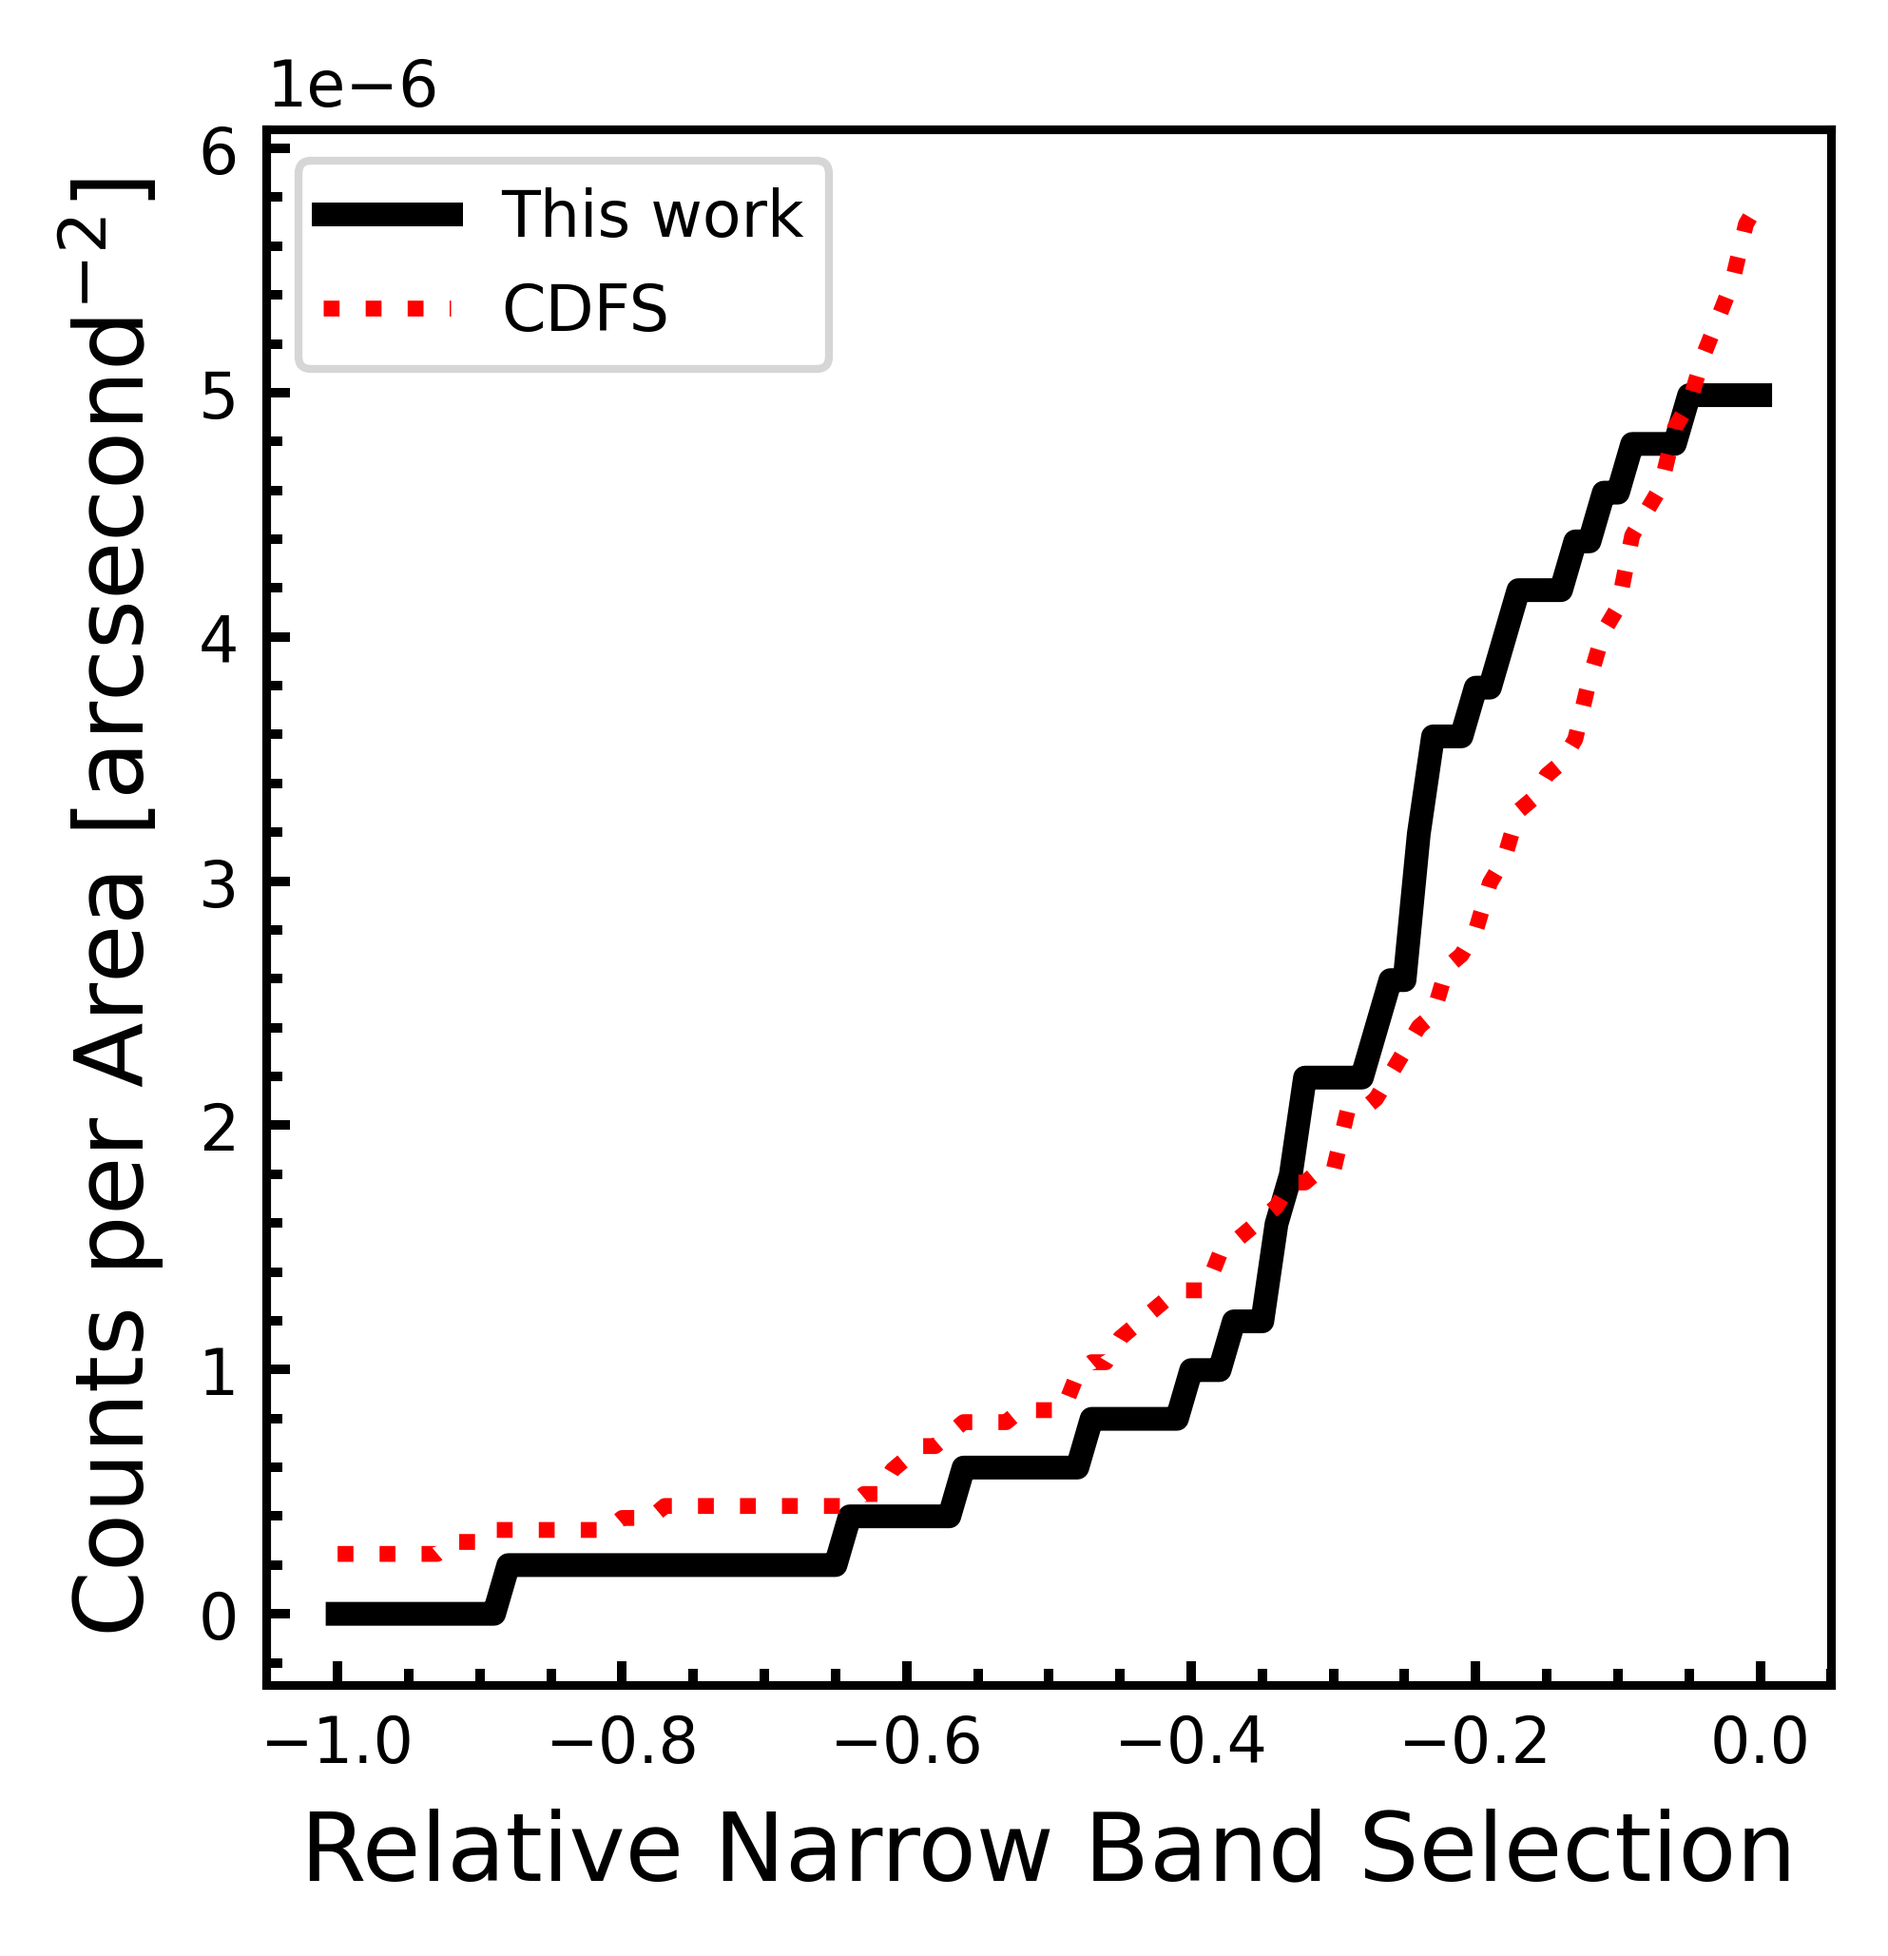
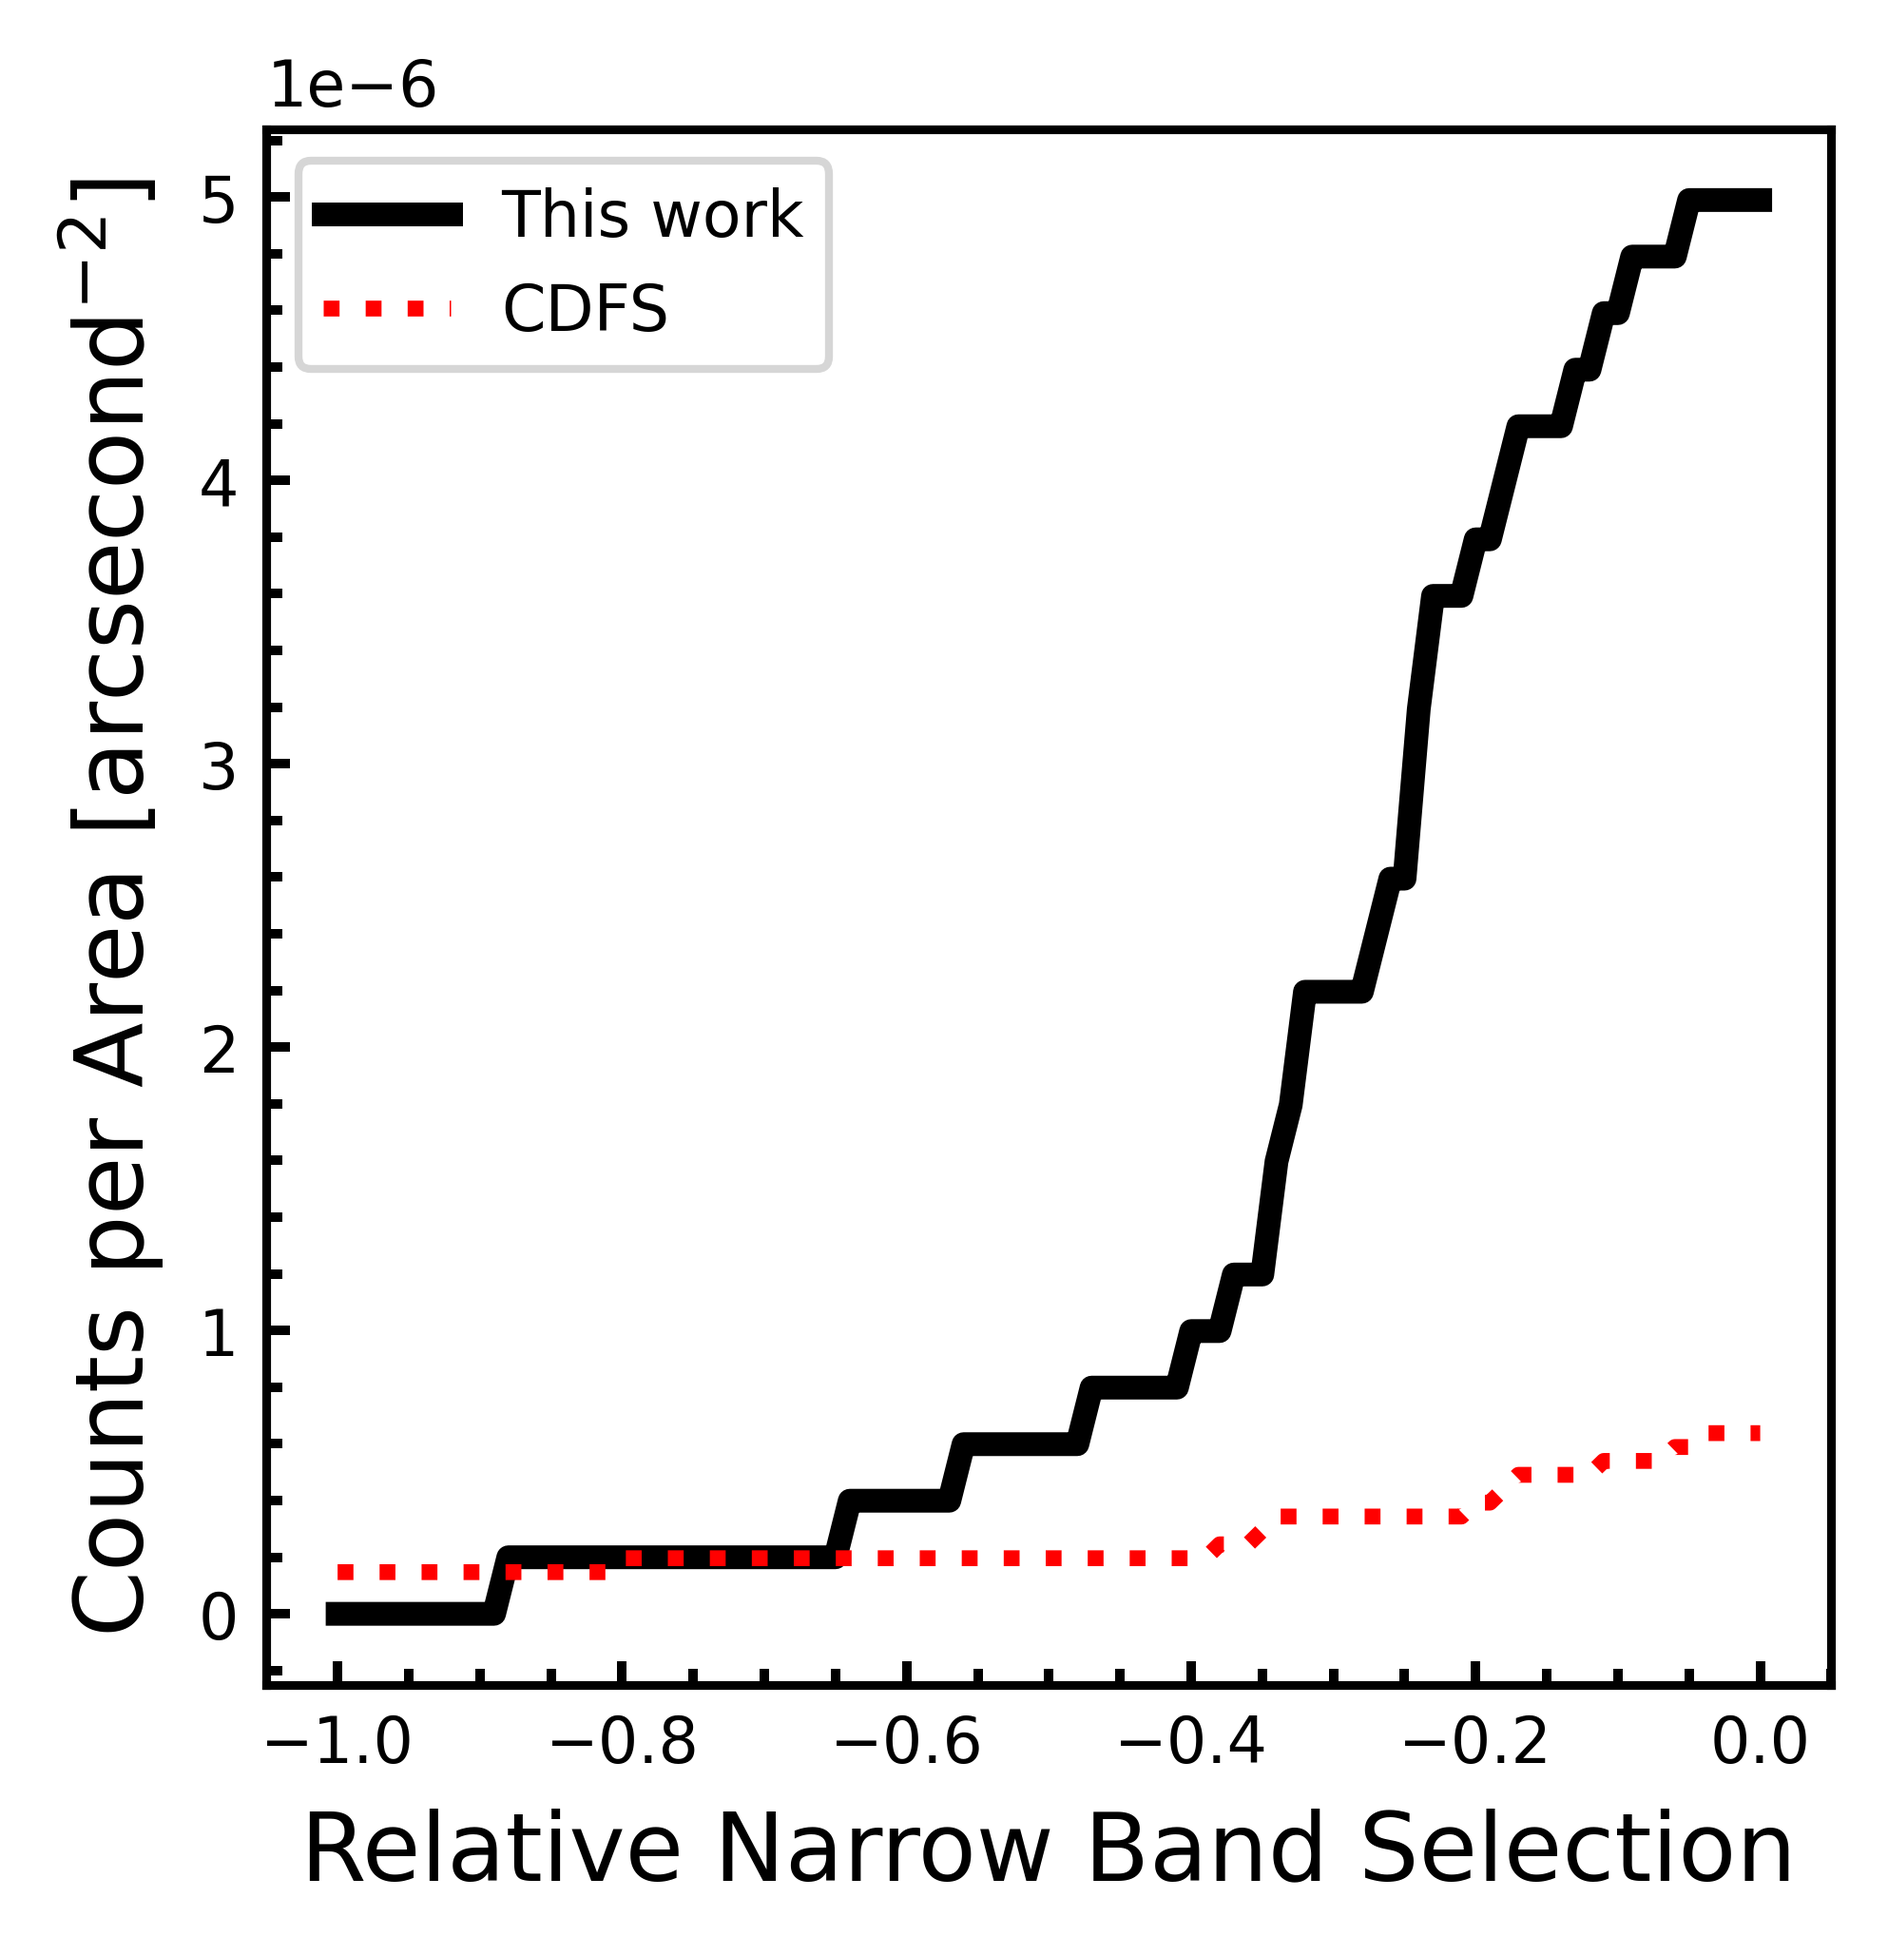
roberto check

diff --git a/identify_candidates.py b/identify_candidates.py
@@ -451,9 +451,9 @@ if __name__ == '__main__':
     #our_selection_classic = ClassicSNR(our_inputs, 5, 5, 3, 3)
     #cdfs_selection = MagCutSelection(cdfs_inputs, n_depth, n_135_depth, 26.21, z_depth)
     #cdfs_selection_classic = ClassicSNR(cdfs_inputs, 5, 5, 3, 3)
-    our_selection = EduaradoSelection(our_inputs_eduardo, None, None, i_depth, z_depth)
+    #our_selection = EduaradoSelection(our_inputs_eduardo, None, None, i_depth, z_depth)
     cdfs_selection = EduaradoSelection(cdfs_inputs_eduardo, None, None, 26.94, 27.35)
 
     #perform_selection(our_selection)
-    perform_selection(cdfs_selection)
+    perform_selection(cdfs_selection_classic)
     #perform_selection(imacs_selection)

diff --git a/plot_cumulative_eduardo.py b/plot_cumulative_eduardo.py
@@ -8,7 +8,7 @@ from astropy.coordinates import SkyCoord
 import astropy.units as u
 from pandas import DataFrame
 
-from plot_cumulative import cross_match_to_sexcat, add_ab_mags
+from plot_cumulative import cross_match_to_sexcat
 from sex_catalog import SExtractorCat
 from zero_points import zero_points, ZeroPoints
 from zero_points_cdfs import zero_points_cdfs
@@ -49,4 +49,3 @@ end_plot('plots/cummulative_eduardo.png')
 start_plot('magnitdue limit', 'Normalized-Count Ratio')
 plt.plot(limits, (np.array(our_counts) / DECAM_AREA)/(np.array(cdfs_counts) / CDFS_AREA))
 end_plot('plots/eduardo_ratio.png')
-
